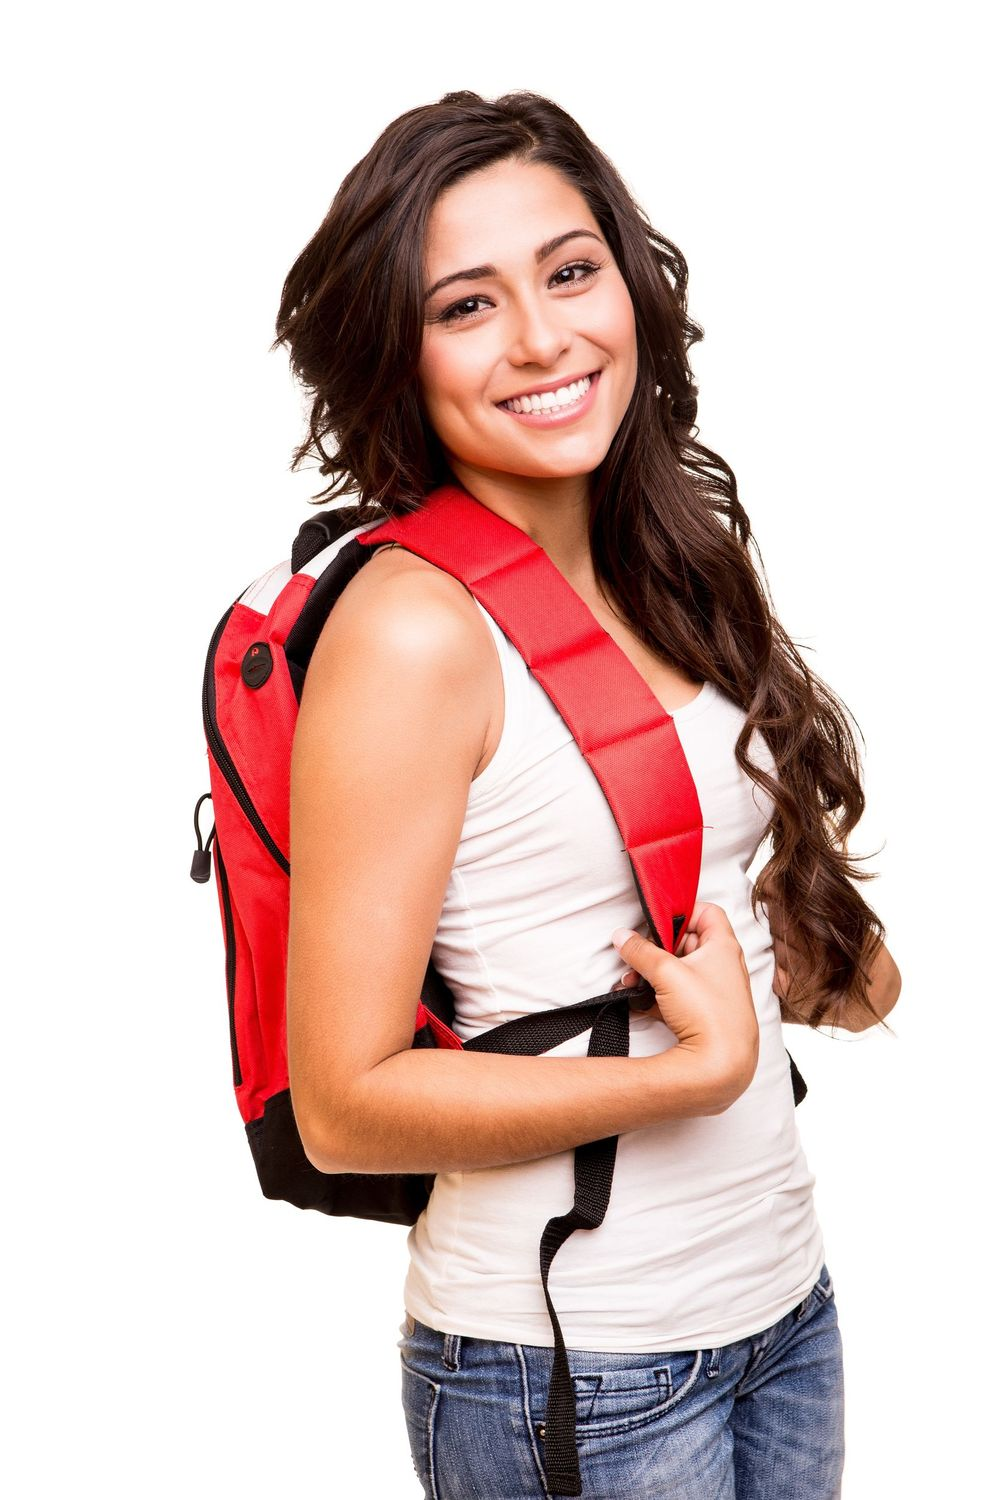
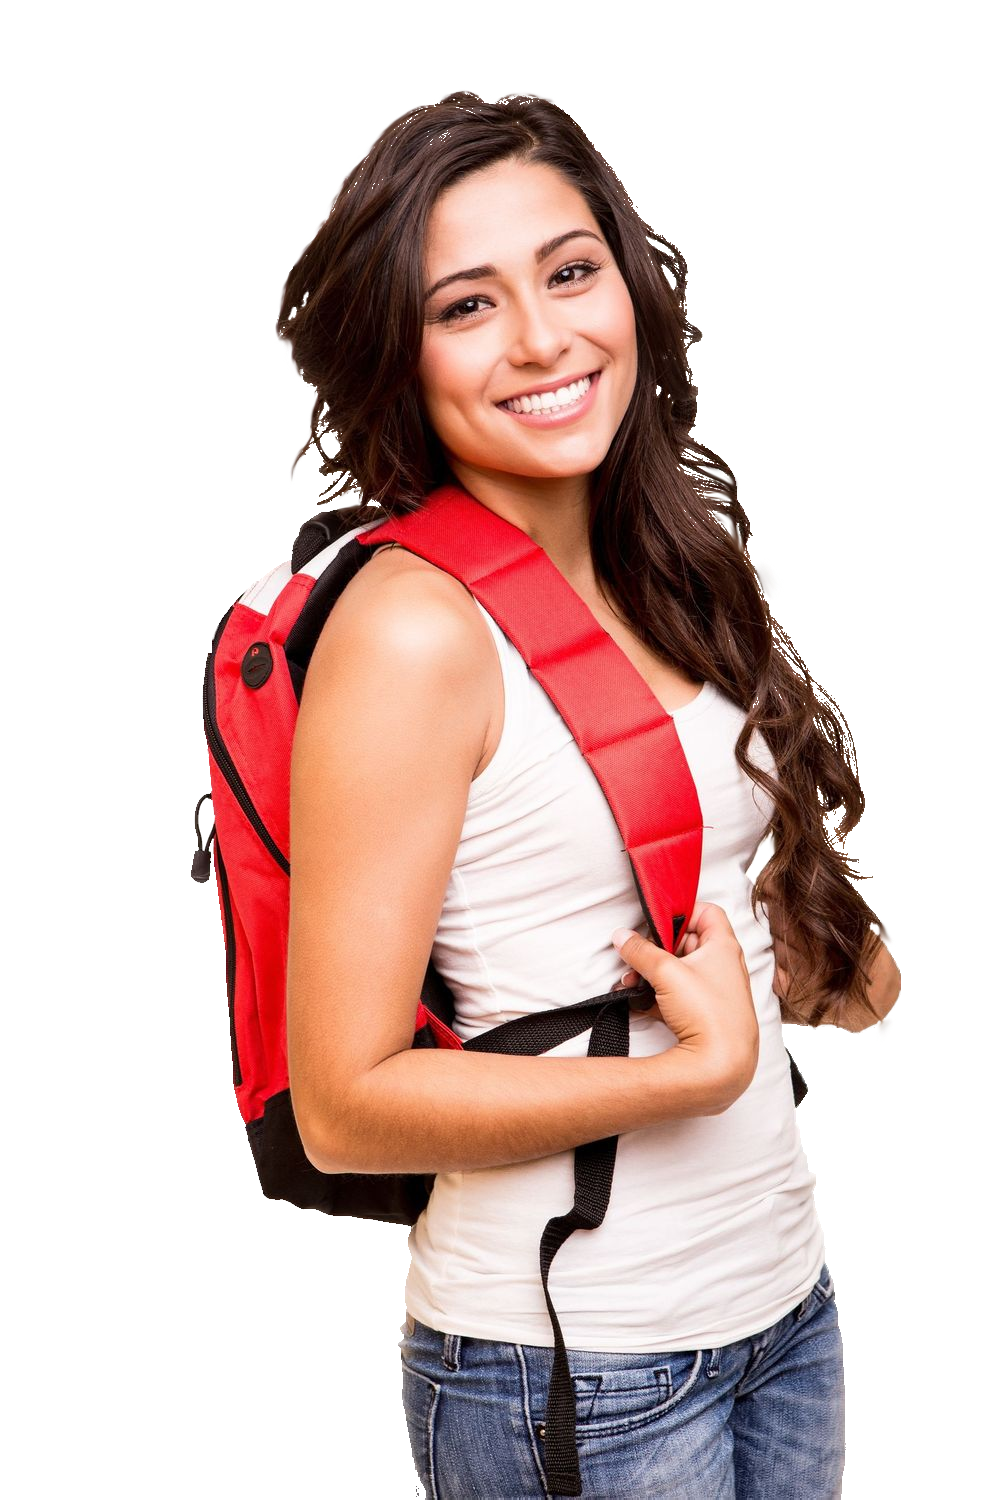
Tour Completed and student photo updated

diff --git a/public/html/index_sideNav.html b/public/html/index_sideNav.html
@@ -9,6 +9,7 @@
 
     <link rel="stylesheet" href="../bower_components/bootstrap/dist/css/bootstrap.min.css">
     <link rel="stylesheet" href="../bower_components/font-awesome/css/font-awesome.min.css">
+    <link rel="stylesheet" href="../stylesheets/bootstrap-tour.css">
     <link rel="stylesheet" href="../bower_components/bootstrap-material-design/dist/css/ripples.min.css">
     <link rel="stylesheet"
           href="../bower_components/bootstrap-material-design/dist/css/bootstrap-material-design.min.css">
@@ -64,7 +65,7 @@
                 </div>
                 <div class="col-lg-2 col-md-2 col-sm-2 col-xs-2 pull-right " id="mastHeadLogin"
                      style="padding-top: 50px">
-                    <a href="">Login<i class="glyphicon glyphicon-log-in"></i></a>
+                    <a href="">Login <i class="glyphicon glyphicon-log-in"></i></a>
 
                 </div>
 
@@ -265,7 +266,7 @@
         </div>
 
         <div class="row is-flex">
-            <div class="col-lg-push-9 col-md-push-9 col-lg-3 col-md-3 col-sm-12 col-xs-12 white-panel">
+            <div class="col-lg-push-9 col-md-push-9 col-lg-3 col-md-3 col-sm-12 col-xs-12 white-panel" id="announcePop">
                 <h3 class="page-header">Announcements</h3>
                 <ul class="custom-list-style">
                     <li><a href="#">Institutions Hosting the Grand Finals of Smart India Hackathon</a></li>
@@ -284,7 +285,7 @@
                 </nav>
             </div>
             <div class="col-lg-pull-3 col-md-pull-3 col-lg-9 col-md-9 col-sm-12 col-xs-12">
-                <div class="row is-flex text-center">
+                <div class="row is-flex text-center" id="stakeholderPop">
                     <div class="col-md-4 col-lg-4 col-sm-4 col-xs-12 white-panel">
                         <a href="" target="_blank">
                             <div><i class="fa fa-external-link pull-right" aria-hidden="true"></i></div>
@@ -308,8 +309,8 @@
                     </div>
                 </div>
                 <div class="row is-flex">
-                    <div class="col-xs-12 white-panel">
-                        <h3 class="page-header" align="center">Bulletion Board</h3>
+                    <div class="col-xs-12 white-panel" id="bulletinPop">
+                        <h3 class="page-header text-center">Bulletion Board</h3>
                         <div class="panel-group" id="accordion">
                             <div class="panel panel-default">
                                 <div class="panel-heading">
@@ -444,9 +445,9 @@
                     <div class="col-md-3 col-lg-3 col-sm-12 col-xs-12 white-panel">
                         <h3 class="page-header">Anti-Ragging</h3>
                         <img src="../images/antiragging.jpg" alt="ANTI-RAGGING"
-                             class="img-centered" style="height: 100px;width: 100%">
+                             class="img-centered" style="height: 100px;min-width: 150px">
                     </div>
-                    <div class="col-md-9 col-lg-9 col-sm-12 col-xs-12 white-panel">
+                    <div class="col-md-9 col-lg-9 col-sm-12 col-xs-12 white-panel" id="recentPop">
                         <div class="row is-flex">
                             <div class="col-xs-12">
                                 <h3 class="page-header">Recent</h3>
@@ -509,9 +510,72 @@
 </ul>
 <script src="../bower_components/jquery/dist/jquery.min.js"></script>
 <script src="../bower_components/bootstrap/dist/js/bootstrap.min.js"></script>
+<script src="../javascripts/bootstrap-tour.js"></script>
 <script src="../bower_components/bootstrap-material-design/dist/js/ripples.min.js"></script>
 <script src="../bower_components/bootstrap-material-design/dist/js/material.min.js"></script>
 <script src="../javascripts/indexjs.js"></script>
+<script>
+    (function () {
+
+        var tour = new Tour({
+            storage: false,
+            backdrop: true,
+            onEnd: function () {
+                $('.scroll-top').click();
+            },
+            template: `
+            <div class='popover tour'>
+                <div class='arrow'></div>
+                <h3 class='popover-title'></h3>
+                <div class='popover-content'></div>
+                <div class='popover-navigation text-center'>
+                <button class='btn btn-info btn-raised' data-role='prev'>Prev</button>
+                <span data-role='separator'>|</span>
+                <button class='btn btn-info btn-raised' data-role='next'>Next</button>
+            </div>
+            <button class='btn btn-default btn-raised btn-block' data-role='end'>End tour</button>
+            </div>
+            `
+        });
+
+        tour.addSteps([
+            {
+                element: "#brand",
+                placement: "bottom",
+                title: "Hi! Welcome",
+                content: "I will navigate you through the site."
+            },
+            {
+                element: "#stakeholderPop",
+                placement: "top",
+                title: "Our Stakeholders",
+                content: "Click on any one of the links to direct."
+            },
+            {
+                element: "#announcePop",
+                placement: "left",
+                title: "Announcements",
+                content: "Here you can see upcoming events."
+            },
+            {
+                element: "#bulletinPop",
+                placement: "top",
+                title: "Bulletin Board",
+                content: "Here you can know about the Ads, Jobs, Circular and Tender."
+            },
+            {
+                element: "#recentPop",
+                placement: "top",
+                title: "Recent Links",
+                content: "Here are the Recent Links added to AICTE"
+            }
+        ]);
+        // Initialize the tour
+        tour.init();
+        // Start the tour
+        tour.start();
+    }());
+</script>
 </body>
 </html>
 

diff --git a/public/stylesheets/non-functional-styles.css b/public/stylesheets/non-functional-styles.css
@@ -384,5 +384,113 @@ table, th {
     color: #337ab7;
 }
 
+/********Popover-Tour*********/
+.popover-title {
+    background-color: #2c9faa;
+    color: #000;
+}
+
+.popover.top {
+    margin-top: -10px;
+}
+
+.popover.right {
+    margin-left: 10px;
+}
+
+.popover.bottom {
+    margin-top: 10px;
+}
+
+.popover.left {
+    margin-left: -10px;
+}
+
+.popover > .arrow,
+.popover > .arrow:after {
+    position: absolute;
+    display: block;
+    width: 0;
+    height: 0;
+    border-color: transparent;
+    border-style: solid;
+}
+
+.popover > .arrow {
+    border-width: 11px;
+}
+
+.popover > .arrow:after {
+    content: "";
+    border-width: 10px;
+}
+
+.popover.top > .arrow {
+    bottom: -11px;
+    left: 50%;
+    margin-left: -11px;
+    border-top-color: #999;
+    border-top-color: rgba(0, 0, 0, .25);
+    border-bottom-width: 0;
+}
+
+.popover.top > .arrow:after {
+    bottom: 1px;
+    margin-left: -10px;
+    content: " ";
+    border-top-color: #606060;
+    border-bottom-width: 0;
+}
+
+.popover.right > .arrow {
+    top: 50%;
+    left: -11px;
+    margin-top: -11px;
+    border-right-color: #999;
+    border-right-color: rgba(0, 0, 0, .25);
+    border-left-width: 0;
+}
+
+.popover.right > .arrow:after {
+    bottom: -10px;
+    left: 1px;
+    content: " ";
+    border-right-color: #606060;
+    border-left-width: 0;
+}
+
+.popover.bottom > .arrow {
+    top: -11px;
+    left: 50%;
+    margin-left: -11px;
+    border-top-width: 0;
+    border-bottom-color: #999;
+    border-bottom-color: rgba(0, 0, 0, .25);
+}
+
+.popover.bottom > .arrow:after {
+    top: 1px;
+    margin-left: -10px;
+    content: " ";
+    border-top-width: 0;
+    border-bottom-color: #606060;
+}
+
+.popover.left > .arrow {
+    top: 50%;
+    right: -11px;
+    margin-top: -11px;
+    border-right-width: 0;
+    border-left-color: #999;
+    border-left-color: rgba(0, 0, 0, .25);
+}
+
+.popover.left > .arrow:after {
+    right: 1px;
+    bottom: -10px;
+    content: " ";
+    border-right-width: 0;
+    border-left-color: #606060;
+}
 
 

diff --git a/public/stylesheets/styles.css b/public/stylesheets/styles.css
@@ -111,7 +111,7 @@ nav[aria-label="Announcements Pager"] {
 
     #mastHeadBrand h1 {
         font-size: 3.1rem;
-        font-family:'Lato-Light';
+        font-family: 'Fira Sans', "Roboto", sans-serif;
         align-self: flex-end;
     }
 
